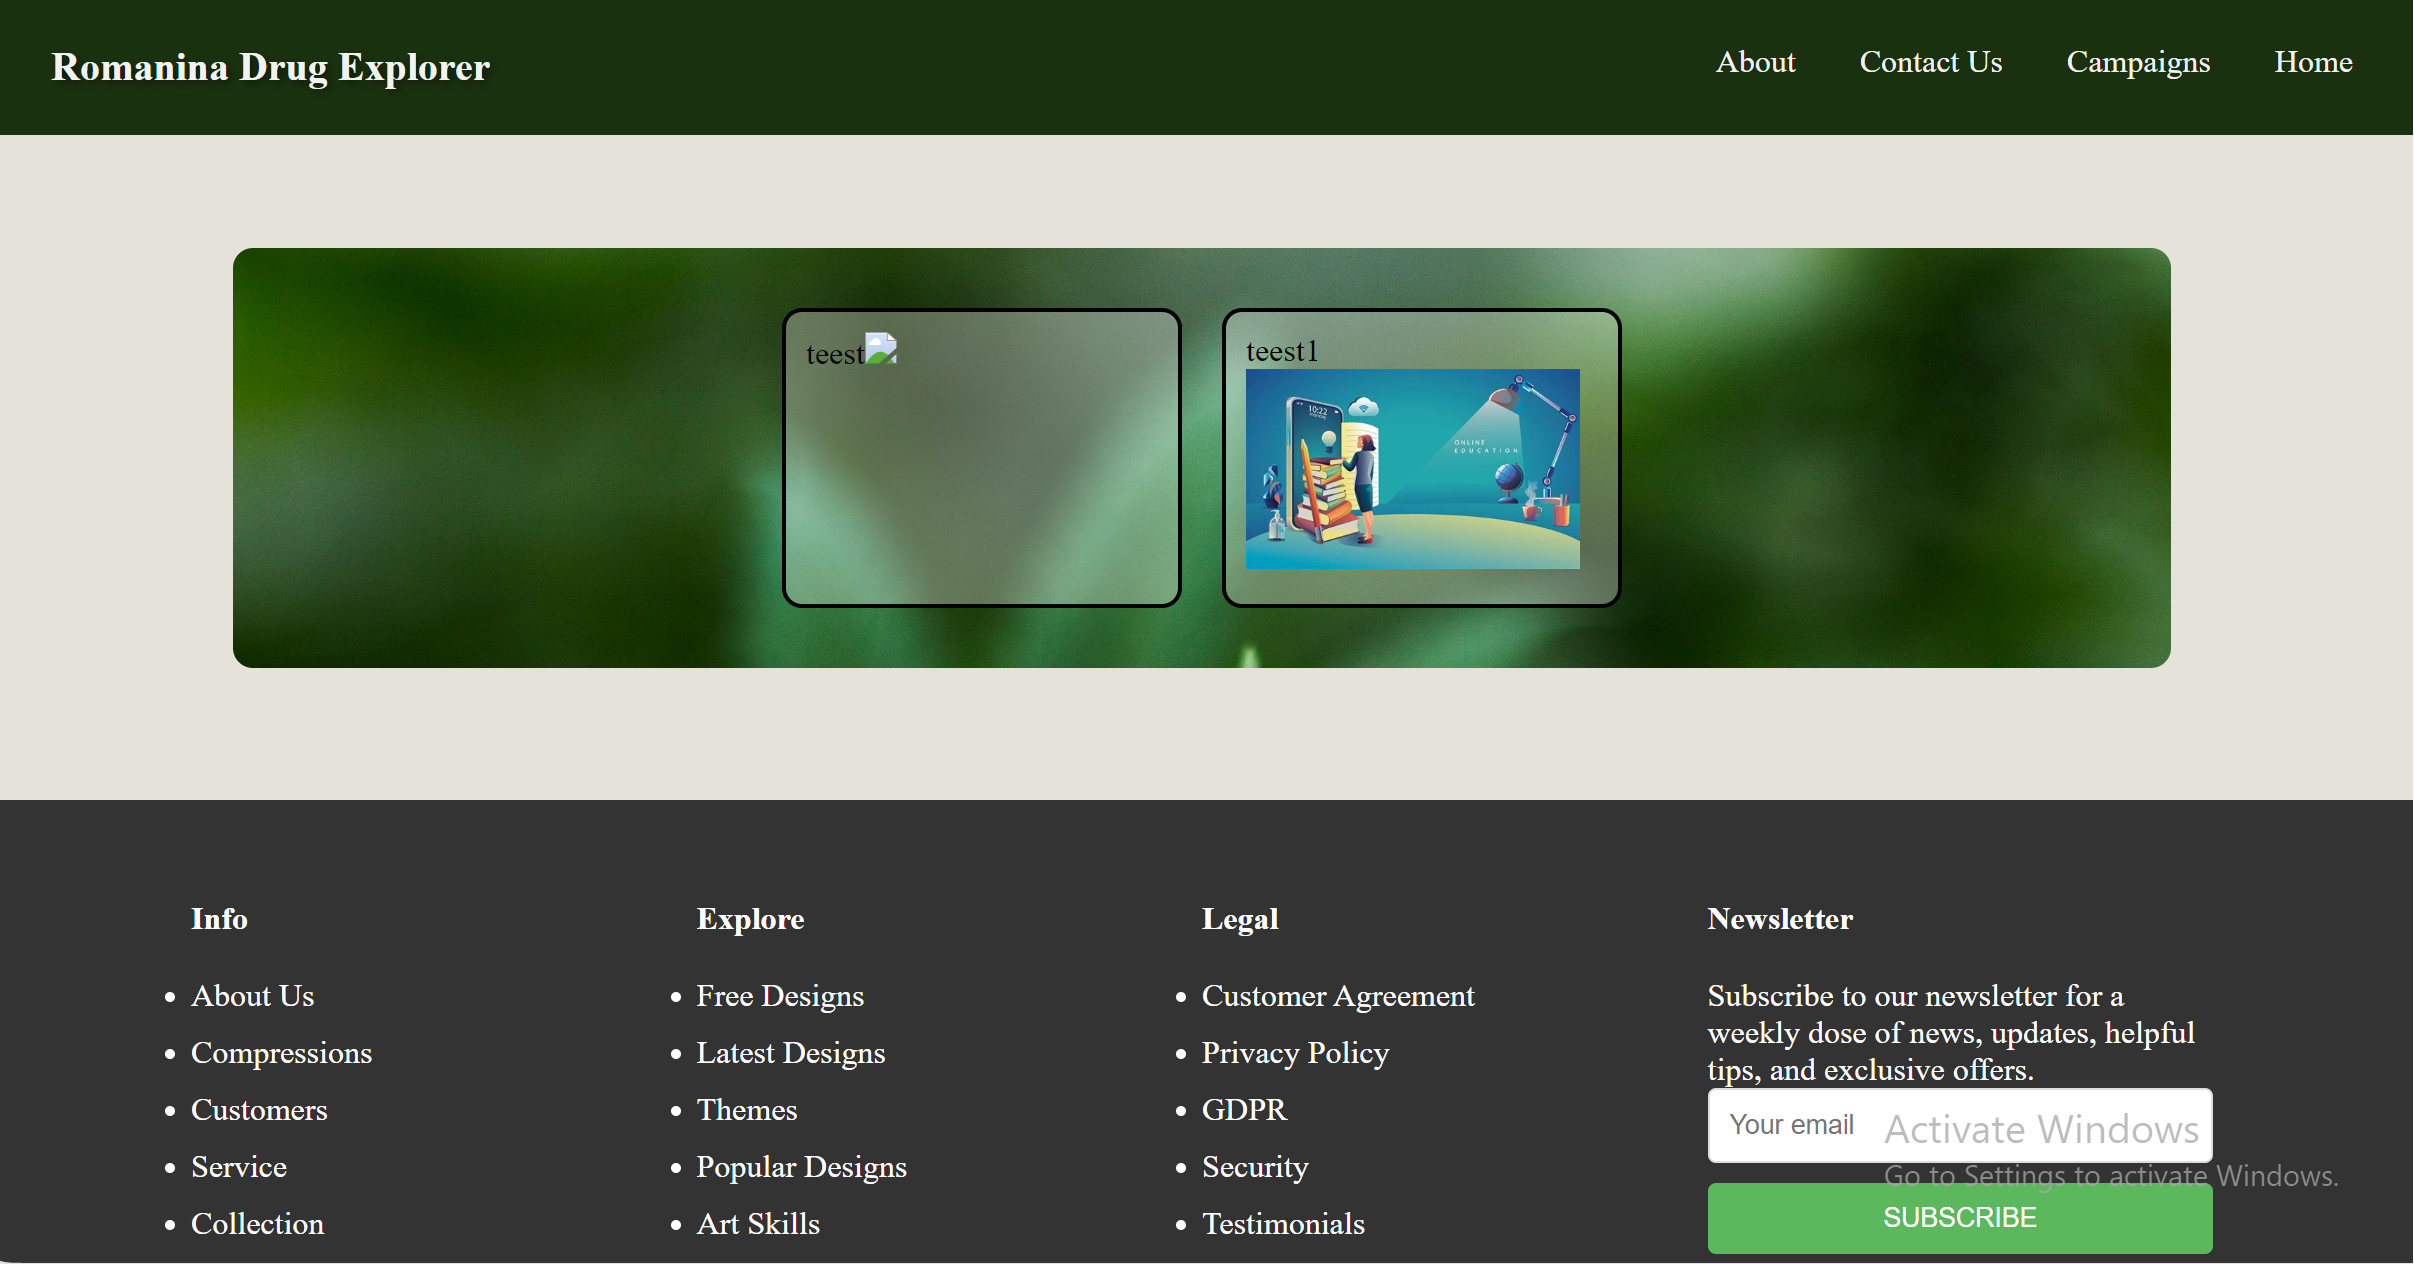
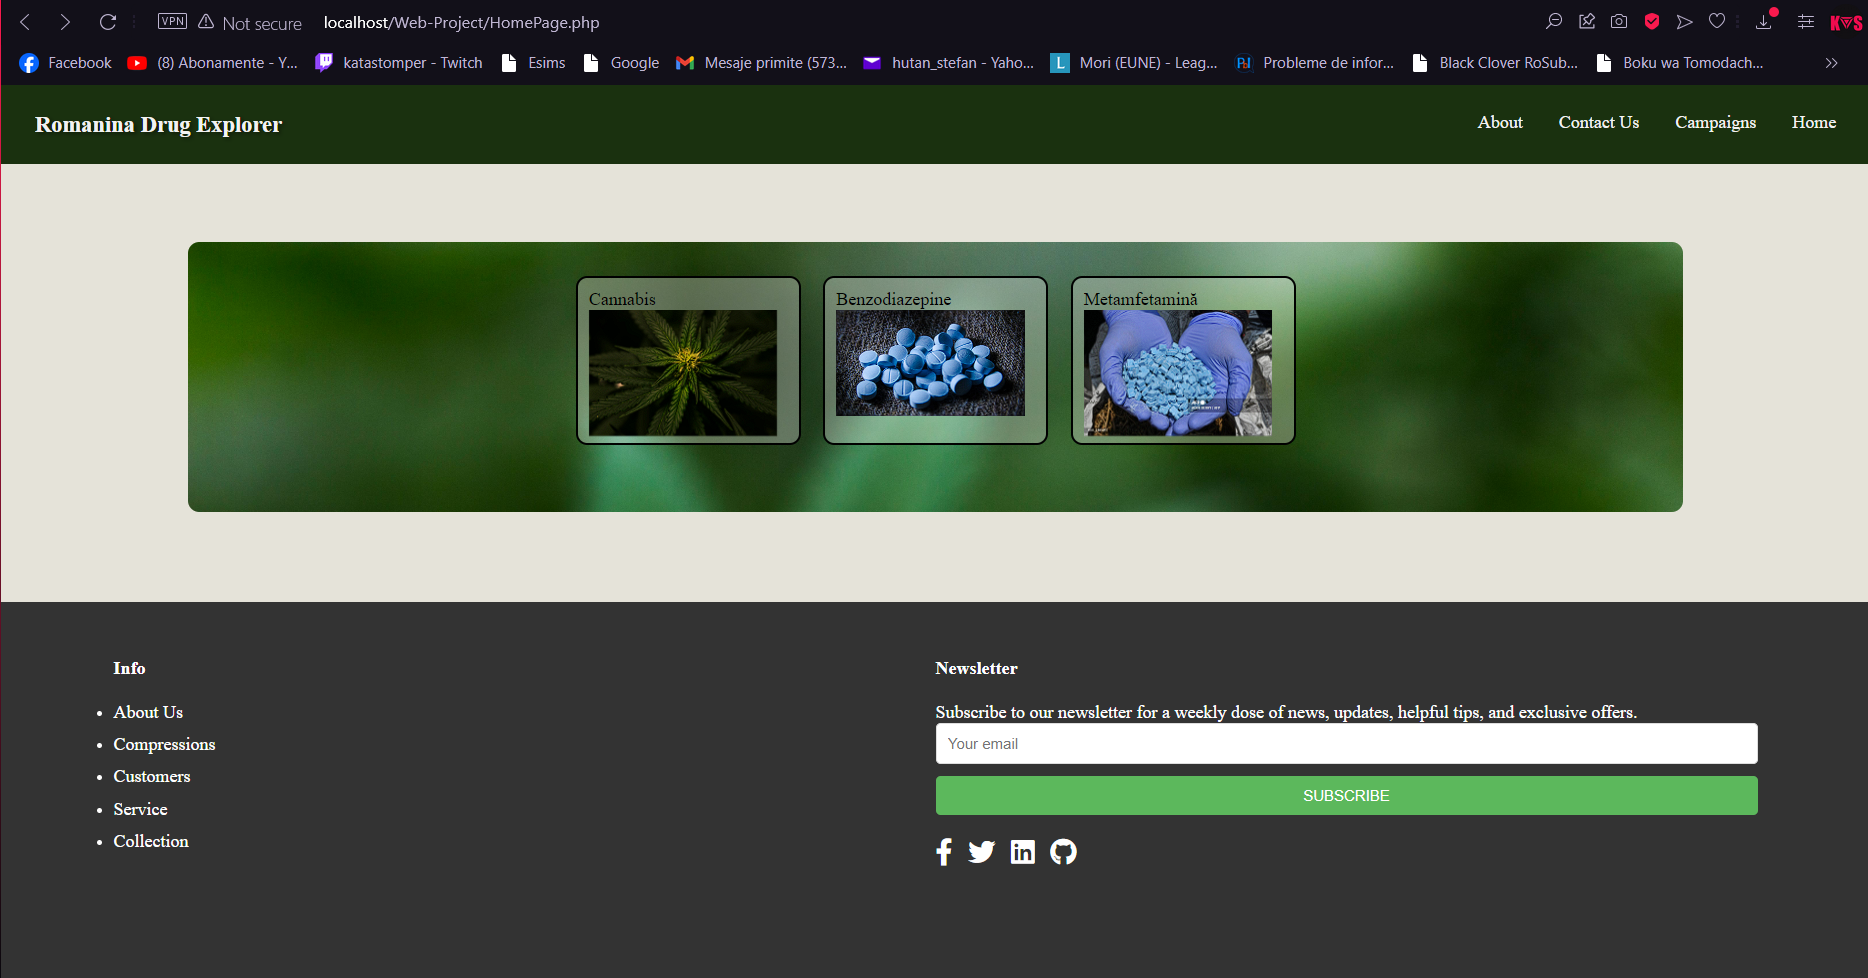
D

diff --git a/style.css b/style.css
@@ -150,10 +150,11 @@
   color: inherit;
 }
 .box__img {
-  width: 95%;
+  width: 200px;
   height: auto;
   object-fit: cover;
-  max-width: 200px;
+  max-width: 100%;
+  transition: transform 0.3s ease-in-out;
 }
 .box__text {
   align-content: end;

diff --git a/style_element_pagina.css b/style_element_pagina.css
@@ -132,4 +132,11 @@ body {
   text-align: center;
 }
 
+.box_image_element{
+  width: 300px;
+  height: auto;
+  object-fit: cover;
+  max-width: 100%;
+}
+
 /*# sourceMappingURL=style_element_pagina.css.map */

diff --git a/element-pagin.php b/element-pagin.php
@@ -32,7 +32,9 @@ if(isset($_GET['id'])) {
         echo  '<div class="container_item" >';
         echo '<div class="item-image" >';
         echo '<h2 class="item-name">' . $row["name"] . '</h2>';
-        echo '<img  src="' . $row["image"] . '" alt="' . $row["name"] . '">';
+        echo '<div class="box_image_element" >';
+        echo '<img  src="'.'images/' . $row["image"] . '" alt="' . $row["name"] . '">';
+        echo '</div>';
         echo '</div>';
         echo '<div class="details" >';
         echo '<p><strong>Type:</strong> ' . $row["type"] . '</p>';

diff --git a/HomePage.php b/HomePage.php
@@ -29,7 +29,7 @@
                 echo '<a href="element-pagin.php?id=' . $row["id"] . '" class="box__link">';
                 echo '<div class="box">';
                 echo '<text class="box__text">' . $row["name"] . '</text>';
-                echo '<img src="' . $row["image"] . '" class="box__img">';
+                echo '<img src="'.'images/' . $row["image"] . '" class="box__img">';
                 echo '</div>';
                 echo '</a>';
             }
